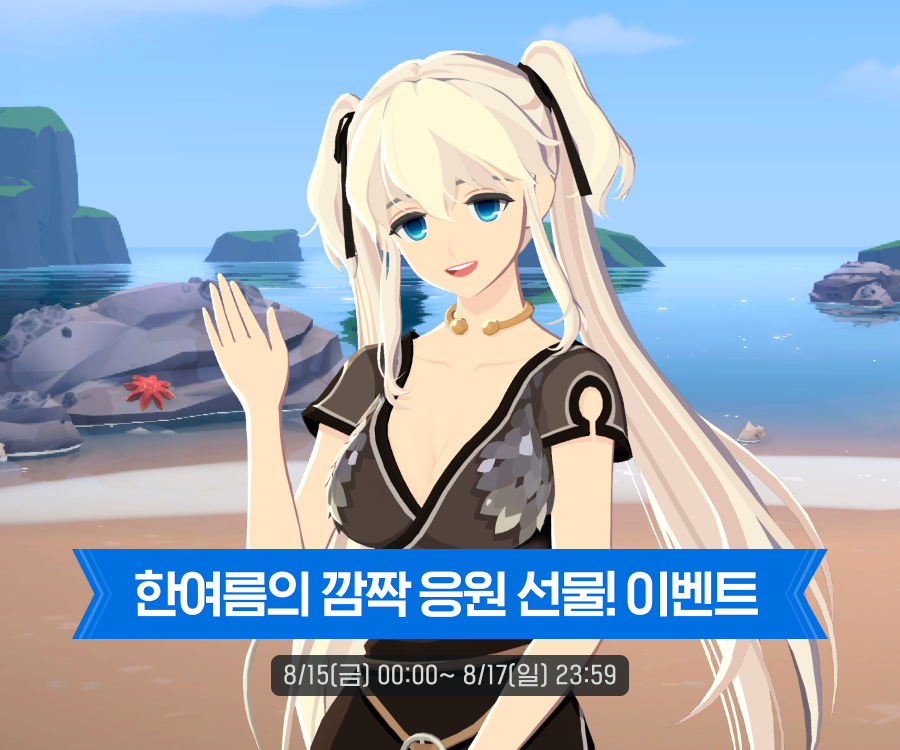
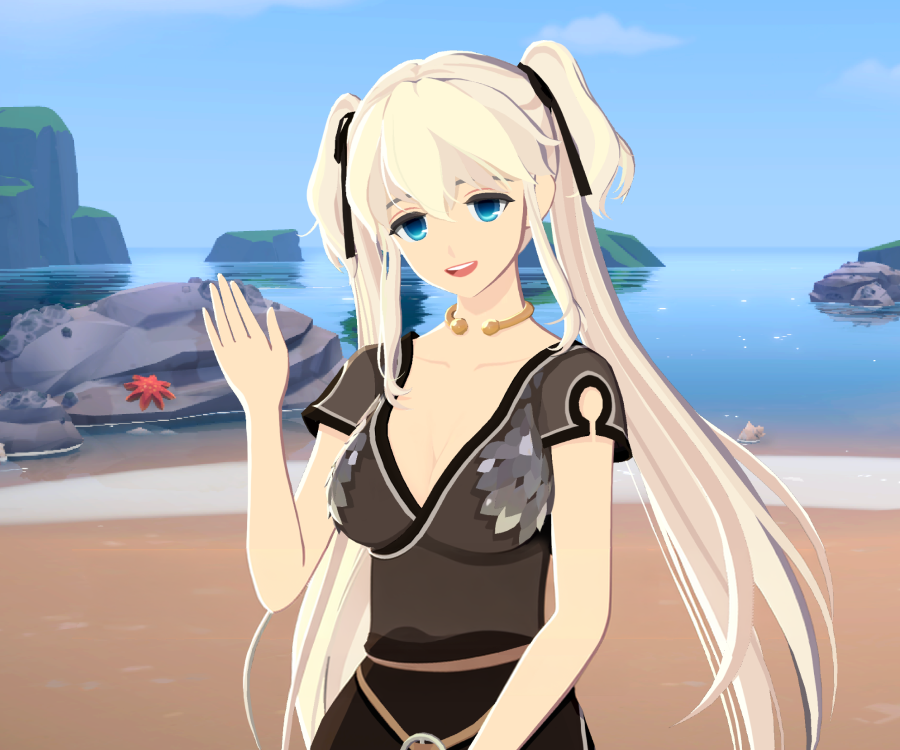
+

Changed region(s): [[0.0622, 0.7053, 0.9333, 0.9507]]

diff --git a/main.html b/main.html
@@ -217,7 +217,7 @@
                     <picture>
                       <source
                         media="(max-width: 750px)"
-                        srcset="./image/banner1_2.jpg"
+                        srcset="./image/banner1_3.png"
                       />
                       <img src="./image/banner1.jpg" alt="배너1" />
                     </picture>
